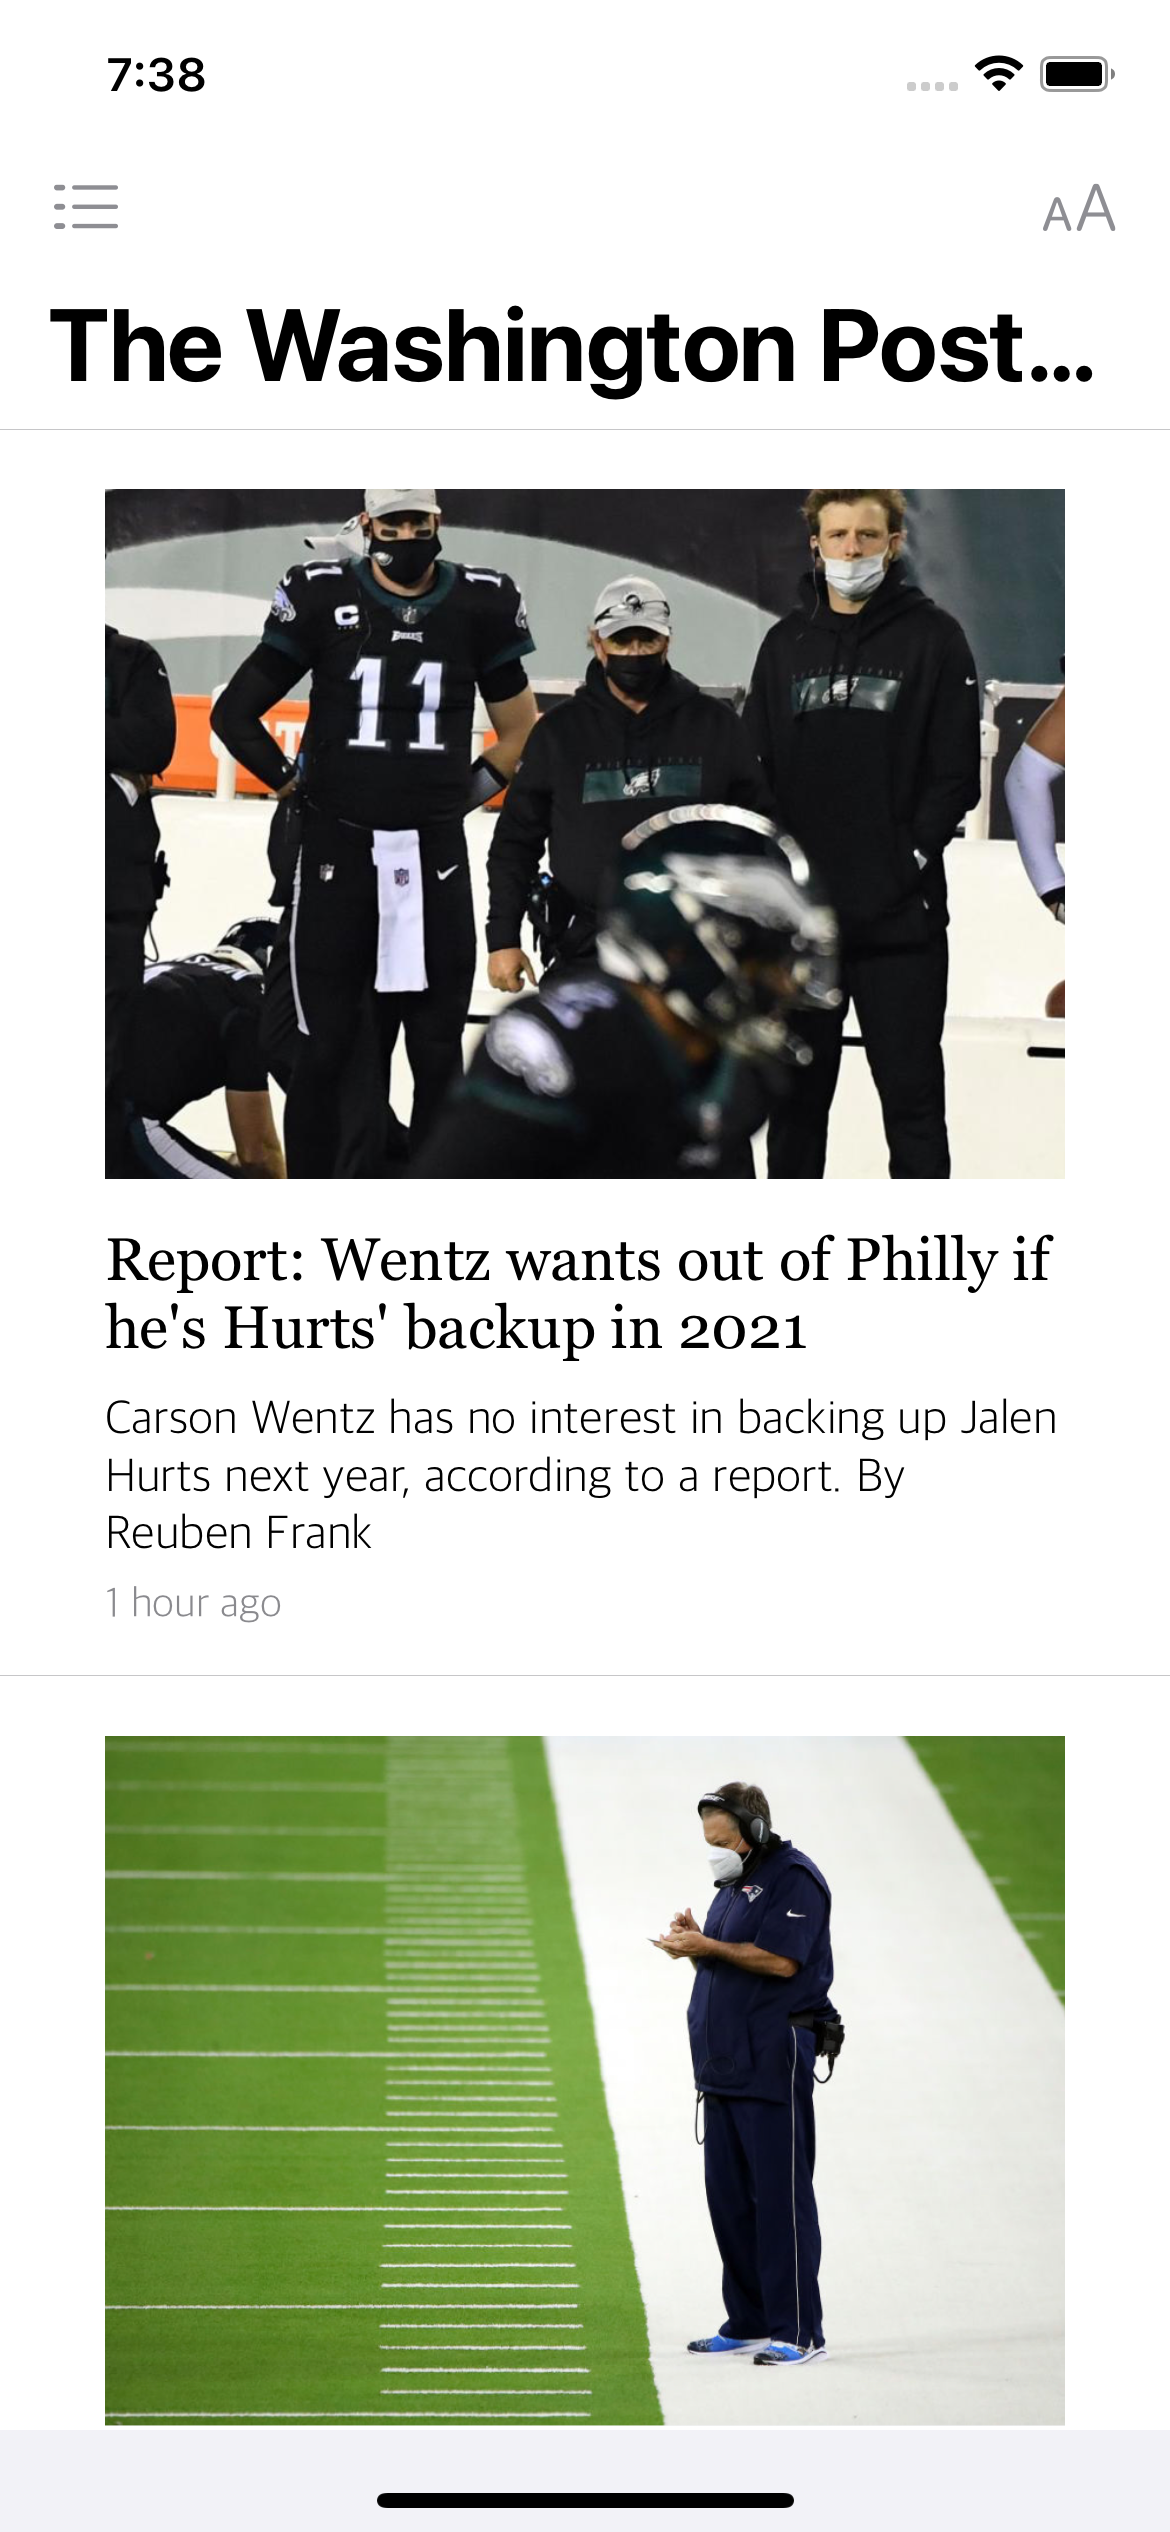
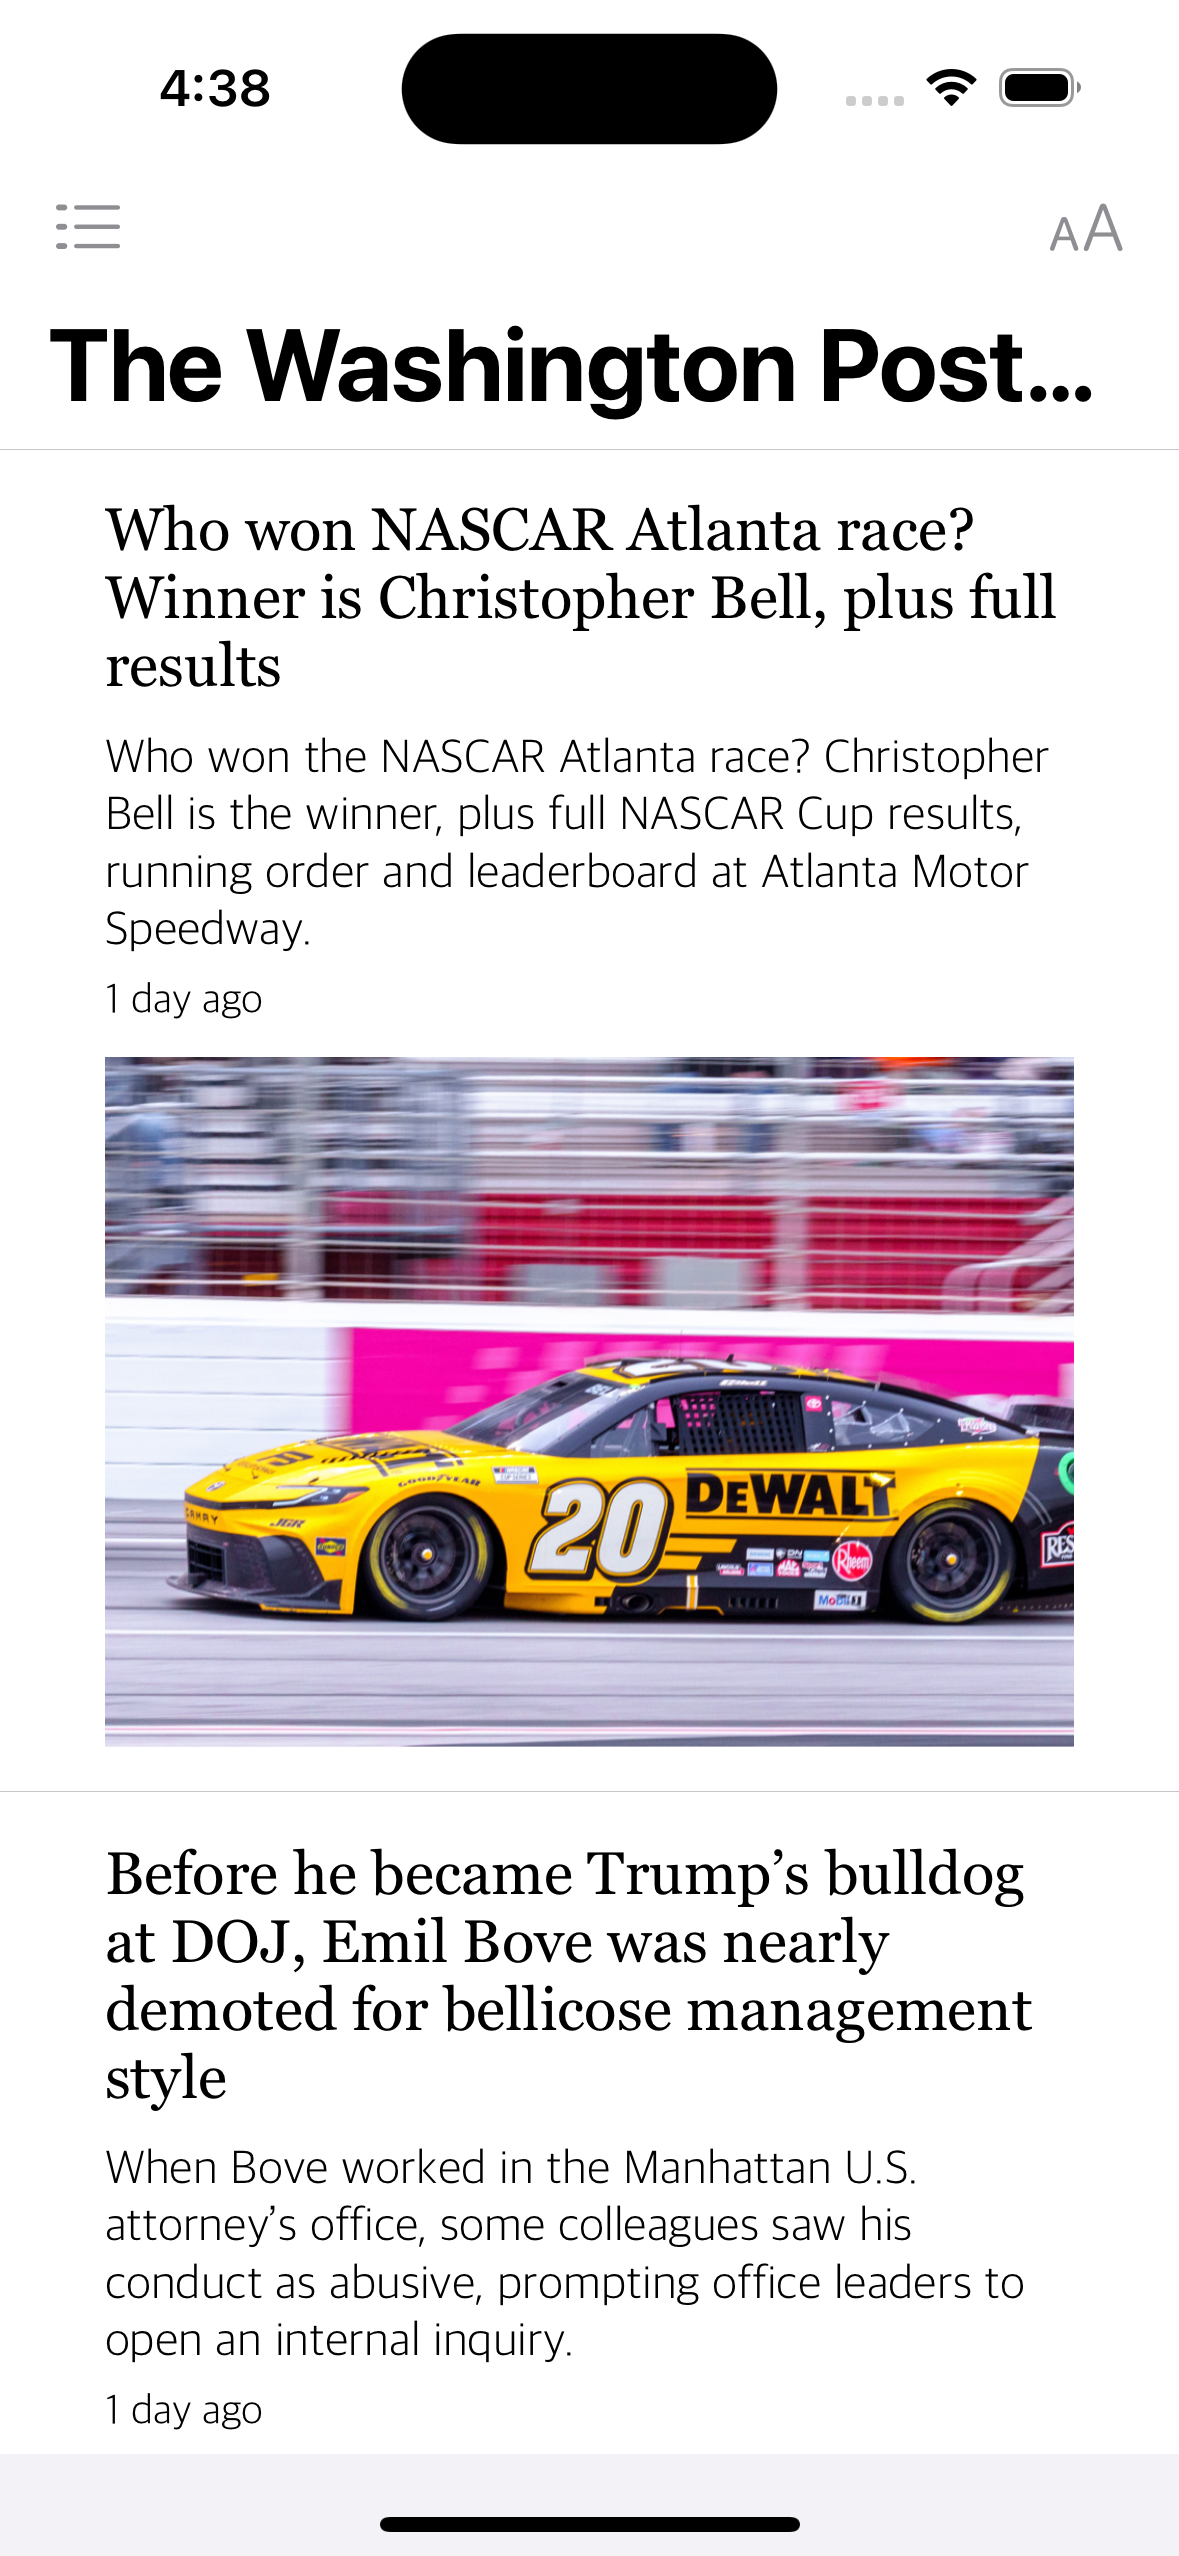
Update Washington Post

diff --git a/Xcode/TheNews/Views/WashingtonPost/WashingtonPostCell.swift b/Xcode/TheNews/Views/WashingtonPost/WashingtonPostCell.swift
@@ -15,7 +15,6 @@ class WashingtonPostCell: NewsCell {
 
         summary.font = UIFont(name: "AppleSDGothicNeo-UltraLight", size: 16)
 
-        source.textColor = .secondaryLabel
         source.font = UIFont(name: "AppleSDGothicNeo-UltraLight", size: 14)
 
         [title, summary, articleImageView, source].forEach {
@@ -25,12 +24,7 @@ class WashingtonPostCell: NewsCell {
         let imageHeight: CGFloat = 230
         let inset: CGFloat = 15
         NSLayoutConstraint.activate([
-            articleImageView.topAnchor.constraint(equalTo: contentView.topAnchor, constant: 20),
-            articleImageView.leadingAnchor.constraint(equalTo: contentView.readableContentGuide.leadingAnchor, constant: inset),
-            contentView.readableContentGuide.trailingAnchor.constraint(equalTo: articleImageView.trailingAnchor, constant: inset),
-            articleImageView.heightAnchor.constraint(equalToConstant: imageHeight),
-
-            title.topAnchor.constraint(equalTo: articleImageView.bottomAnchor, constant: inset),
+            title.topAnchor.constraint(equalTo: contentView.topAnchor, constant: inset),
             title.leadingAnchor.constraint(equalTo: contentView.readableContentGuide.leadingAnchor, constant: inset),
             contentView.readableContentGuide.trailingAnchor.constraint(equalTo: title.trailingAnchor, constant: inset),
 
@@ -41,31 +35,19 @@ class WashingtonPostCell: NewsCell {
             source.topAnchor.constraint(equalTo: summary.bottomAnchor, constant: 5),
             source.leadingAnchor.constraint(equalTo: contentView.readableContentGuide.leadingAnchor, constant: inset),
 
-            contentView.bottomAnchor.constraint(equalTo: source.bottomAnchor, constant: inset)
+            articleImageView.topAnchor.constraint(equalTo: source.bottomAnchor, constant: 10),
+            articleImageView.leadingAnchor.constraint(equalTo: contentView.readableContentGuide.leadingAnchor, constant: inset),
+            contentView.readableContentGuide.trailingAnchor.constraint(equalTo: articleImageView.trailingAnchor, constant: inset),
+            articleImageView.heightAnchor.constraint(equalToConstant: imageHeight),
+            
+            contentView.bottomAnchor.constraint(equalTo: articleImageView.bottomAnchor, constant: inset)
         ])
     }
 
     func load(article: Article, downloader: ImageDownloader) {
         title.text = article.titleDisplay
         summary.text = article.description
-        source.text = article.bottom
+        source.text = article.ago
         load(urlString: article.urlToImage, downloader: downloader, debugString: title.text)
-    }
-
-}
-
-private extension Article {
-    var bottom: String? {
-        var str = ""
-
-        if let author = author, author.count > 0 {
-            str = "By \(author) • "
-        }
-
-        if let ago = ago {
-            str = "\(str)\(ago)"
-        }
-
-        return str
     }
 }
